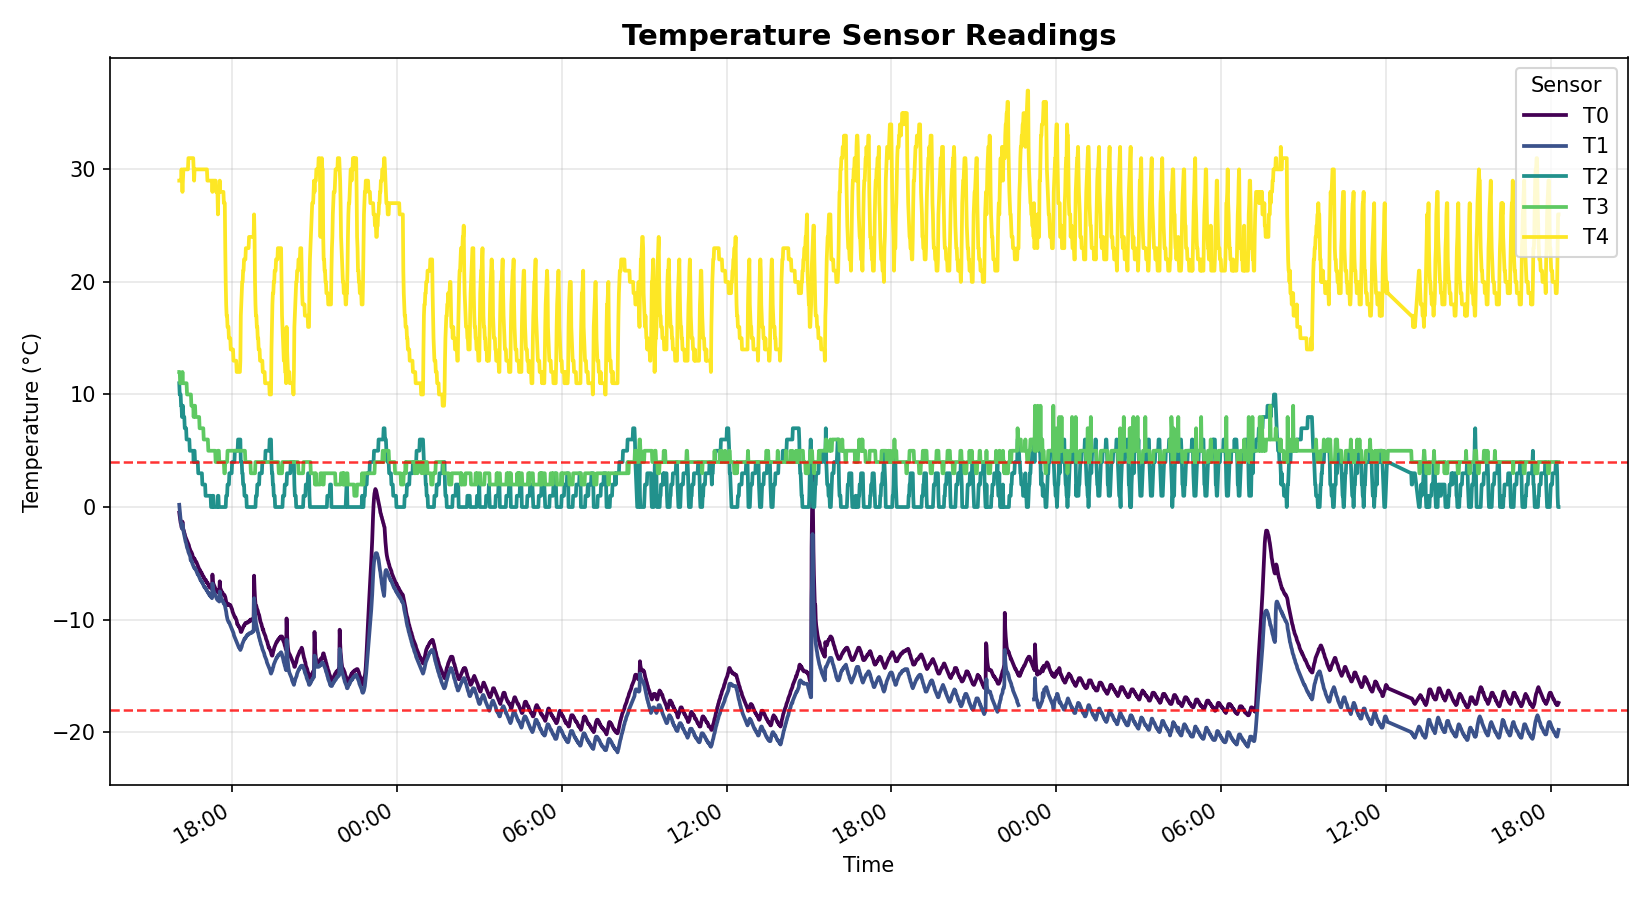
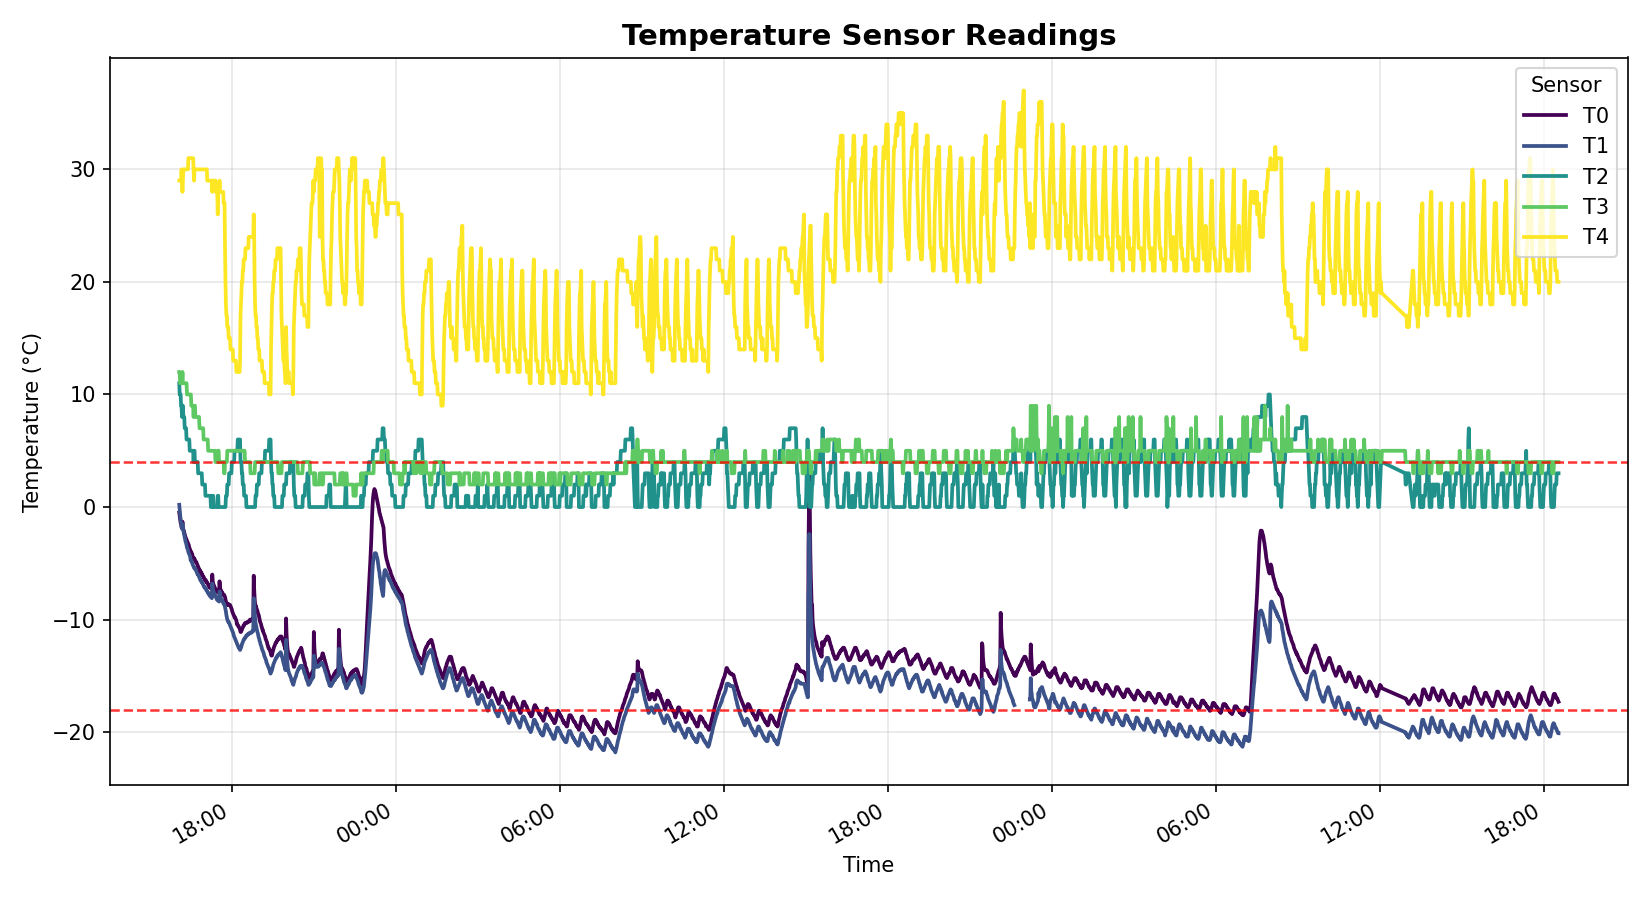
Update temperature plot 2026-08-05 18:33

diff --git a/plot_temps.py b/plot_temps.py
@@ -29,8 +29,8 @@ import matplotlib.pyplot as plt
 import matplotlib.dates as mdates
 
 DEFAULT_HOST = "10.0.0.64"
-DEFAULT_FROM_TS = "2026-08-03T00:00"
-DEFAULT_TO_TS = "2026-08-13T00:00"
+DEFAULT_FROM_TS = "2026-08-01T00:00"
+DEFAULT_TO_TS = "2026-09-01T00:00"
 
 
 def download_csv(host: str, from_ts: str, to_ts: str, dest_path: str, timeout: float = 15.0) -> str:
